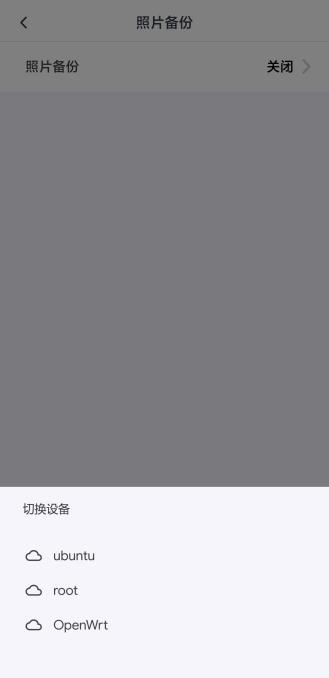
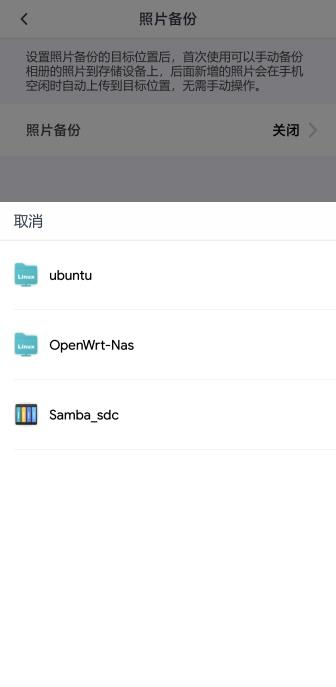
Update iOS album backup tutorial

diff --git a/docs/zh/docs/tutorial.md b/docs/zh/docs/tutorial.md
@@ -103,7 +103,7 @@ PS：如果在新设备上“删除设备”或者修改，不会影响旧设备
 
 ## 相册备份
 
-如何备份相册呢？
+如何备份相册呢？(iOS系统为例)
 
 **1.易有云APP打开“我的”，然后点击“照片备份”；**
 
@@ -113,16 +113,19 @@ PS：如果在新设备上“删除设备”或者修改，不会影响旧设备
 
 ![自动备份.jpg](./tutorial/App/backup/2.jpg)
 
-**3.然后选择设备；**
+**3.然后选择设备，然后选择目录；**
 
 ![备份文件3.jpg](./tutorial/App/backup/3.jpg)
 
 ![备份文件4.jpg](./tutorial/App/backup/4.jpg)
 
-**5.设置好就可以点击立即开始备份，以后就可以自动备份相册了。**
+**4.选好目录后，就能看到一些设置选项；**
 
 ![备份文件5.jpg](./tutorial/App/backup/5.jpg)
 
+**5.设置好就可以点击“立即开始备份”，以后就可以自动备份相册了。**
+
+![备份文件6.jpg](./tutorial/App/backup/6.jpg)
 
 
 
